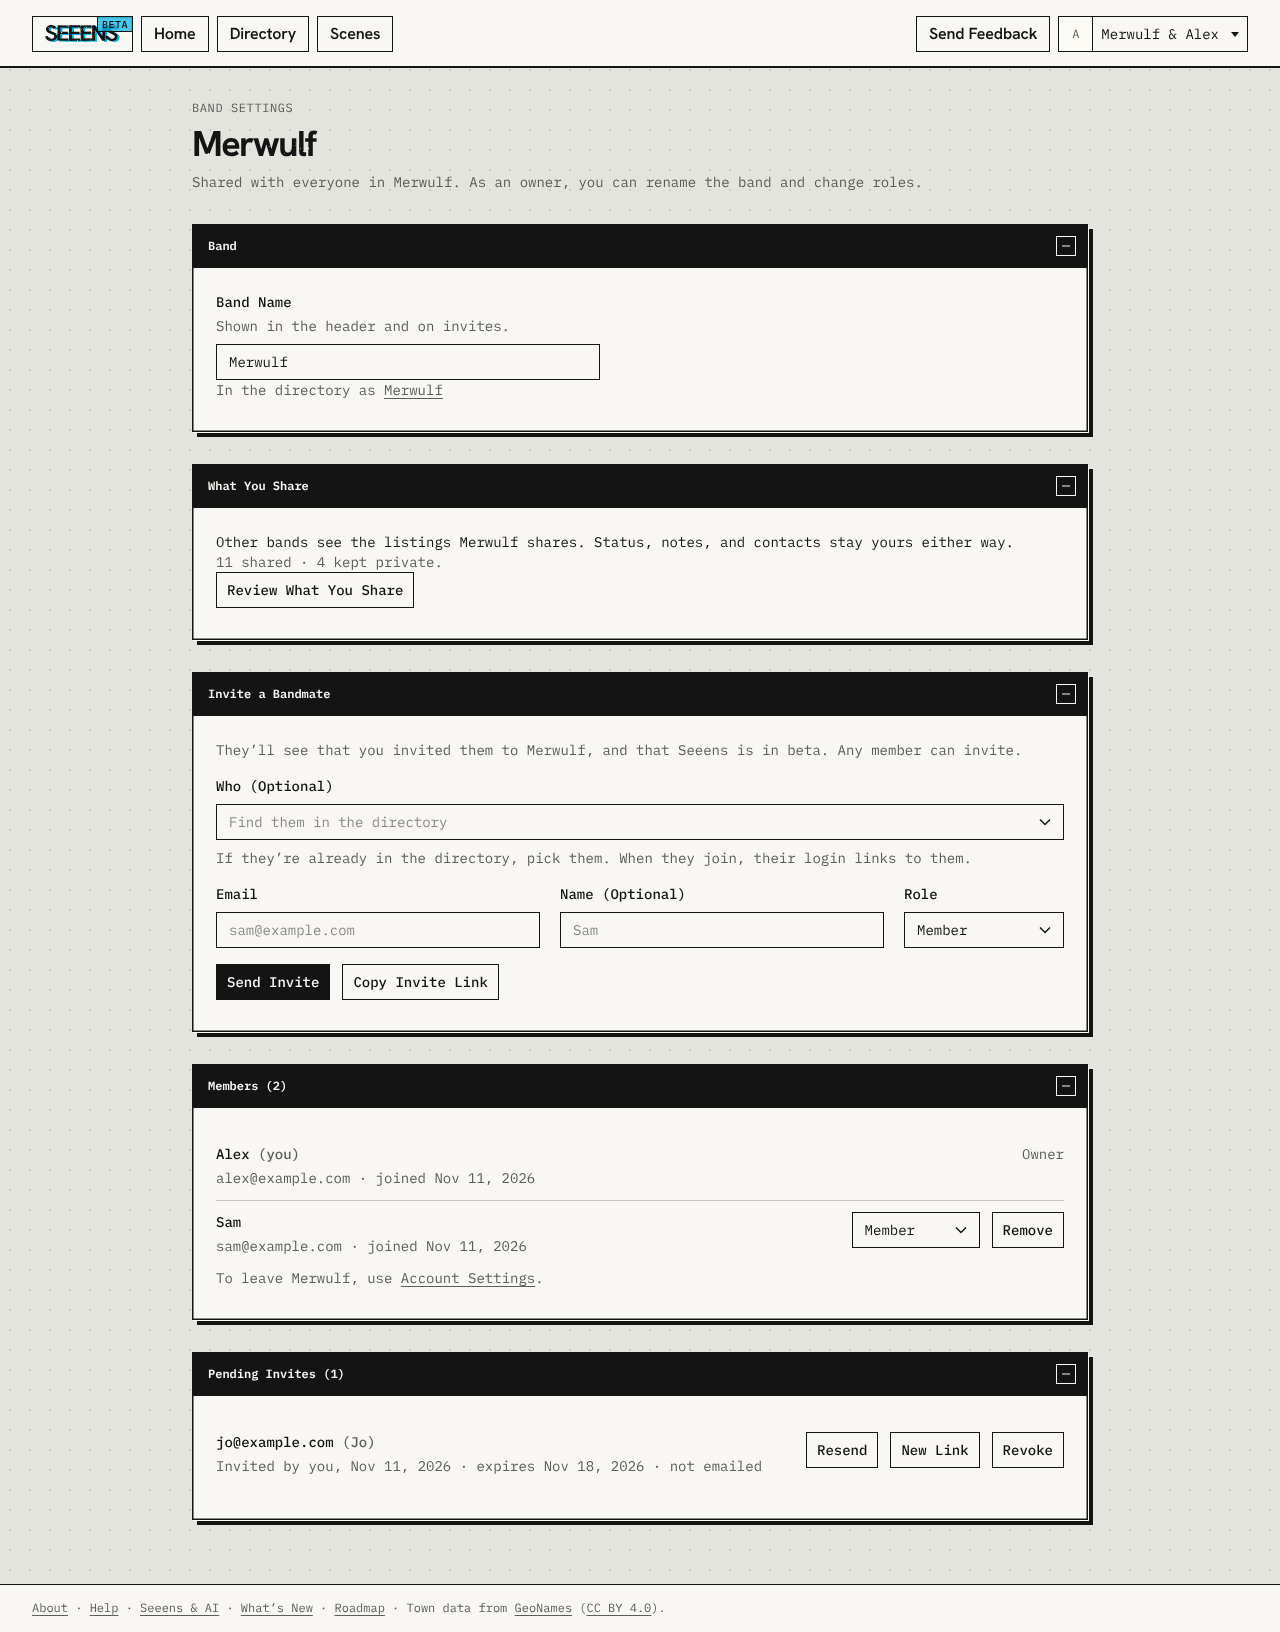
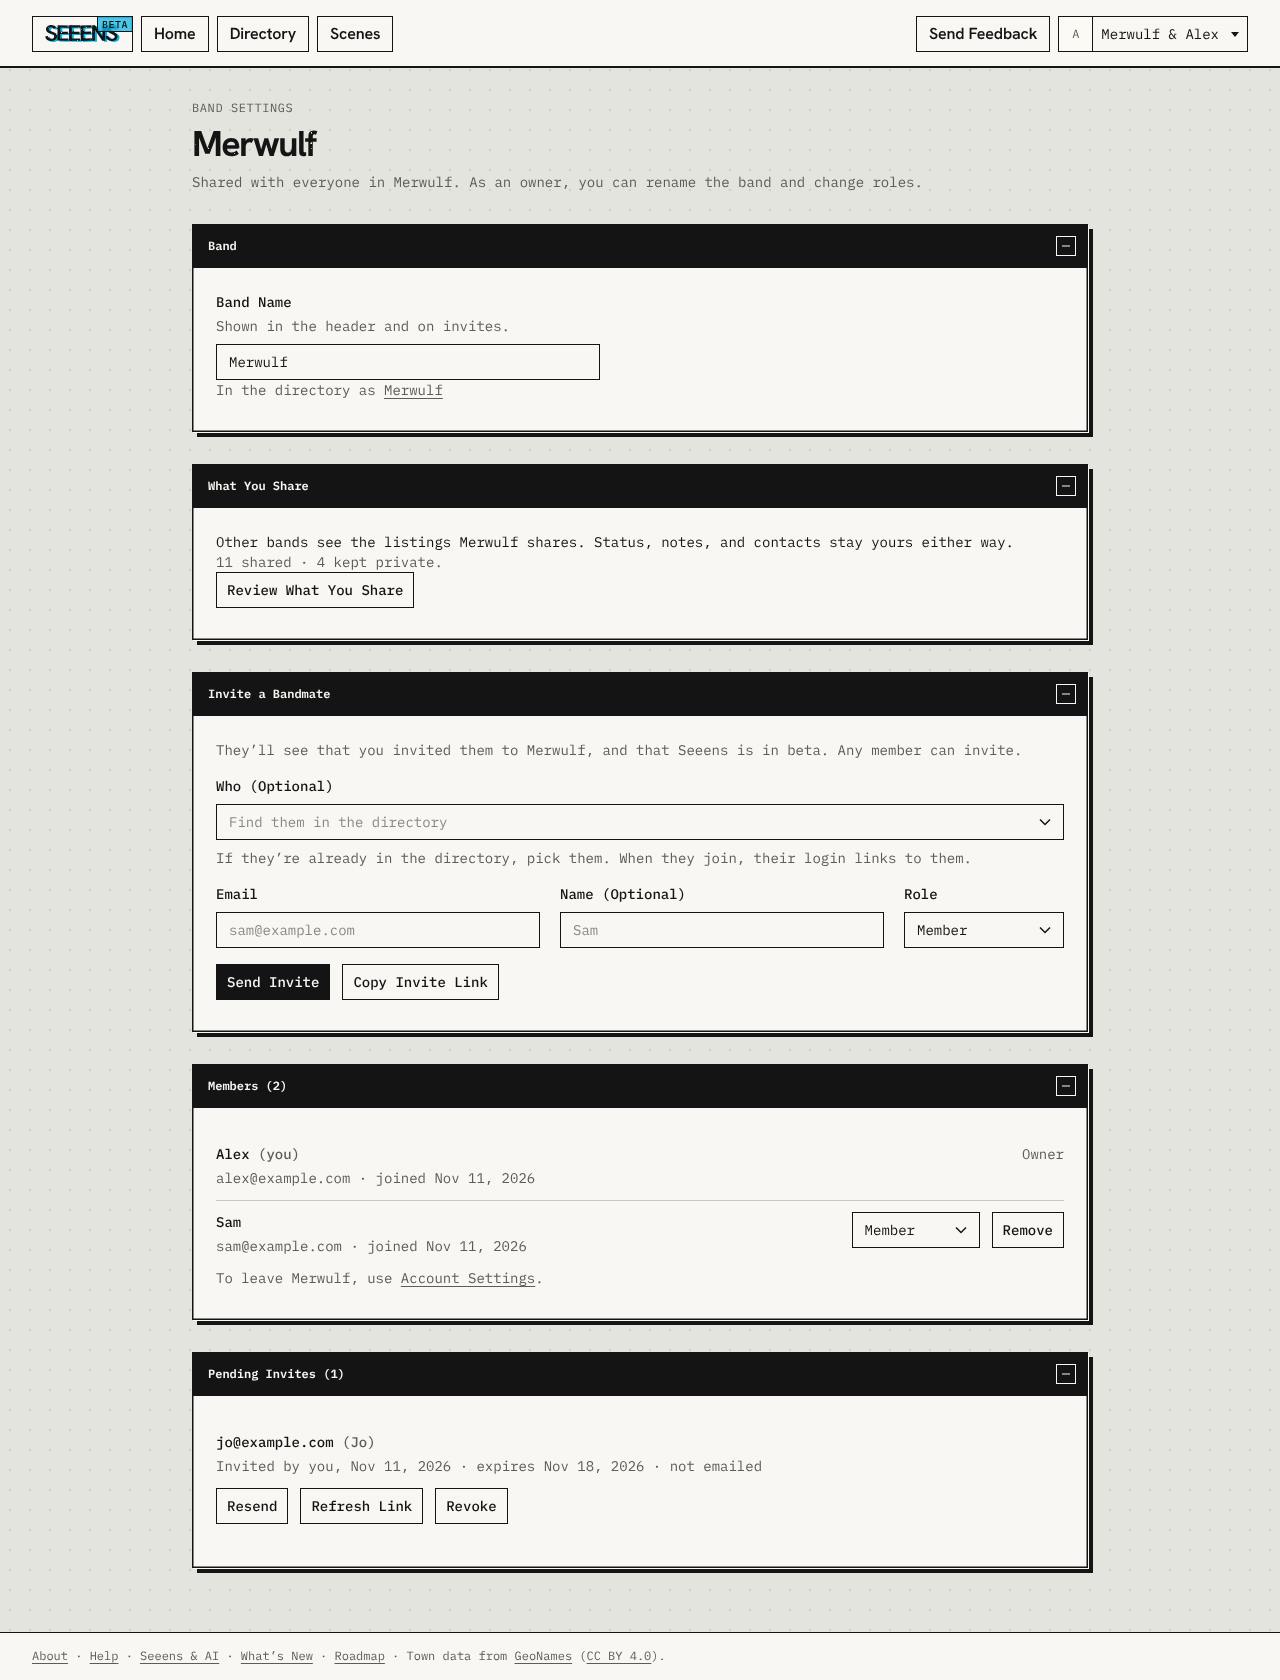
Actions lead with a verb (and a few title case fixes) (#291)
* Calls to action lead with a verb

Buttons and action links that named a place now say what they do: Open
Band Settings, Open Your Band's Page, Add Scene, View Town Nicknames,
View on GitHub, Make a New Link, Browse the Directory, Shuffle Grain, and
on the public pages Read About Seeens, Read About AI, See What's New, and
See the Roadmap. A few labels move to title case (Back to the Directory,
Clear Filters, Remove Photo, Keep It, Restore to Directory). Links inside
sentences and the footer stay as they are. Screenshots retaken where the
labels show.

Claude-Session: https://claude.ai/code/session_01SMP6NnyPkRALtU7G1T7uNS

* Scale back: places keep their names; only actions lead with a verb

Band Settings, Your Band's Page, Town Nicknames, New Grain, and the
public pages' buttons go back to their names. The rule now says what it
meant: actions lead with a verb, a link to a named place can just name
it, and a vague phrase is what to avoid.

Claude-Session: https://claude.ai/code/session_01SMP6NnyPkRALtU7G1T7uNS

* Invites: Refresh Link

Claude-Session: https://claude.ai/code/session_01SMP6NnyPkRALtU7G1T7uNS

---------

diff --git a/src/app/(app)/(directory)/directory-view.tsx b/src/app/(app)/(directory)/directory-view.tsx
@@ -164,7 +164,7 @@ async function Directory({ searchParams }: { searchParams: Promise<Params> }) {
             <p className="text-sm text-muted">
               Nothing archived.{" "}
               <Link href={directoryHref(tab, EMPTY)} className="link">
-                Back to the directory
+                Back to the Directory
               </Link>
             </p>
           ) : (
@@ -203,17 +203,17 @@ async function Directory({ searchParams }: { searchParams: Promise<Params> }) {
               </p>
               {filtering ? (
                 <Link href={directoryHref(tab, { ...EMPTY, archived })} className="link">
-                  Clear filters
+                  Clear Filters
                 </Link>
               ) : null}
               {after ? (
                 <Link href={directoryHref(tab, filters)} className="link">
-                  Back to the start
+                  Back to the Start
                 </Link>
               ) : null}
               {archived ? (
                 <Link href={directoryHref(tab, EMPTY)} className="link">
-                  Back to the directory
+                  Back to the Directory
                 </Link>
               ) : c.archived ? (
                 <Link href={directoryHref(tab, { ...EMPTY, archived: true })} className="link max-sm:hidden">

diff --git a/src/components/photo-copier.tsx b/src/components/photo-copier.tsx
@@ -571,12 +571,12 @@ function CopierBody({
                 Remove
               </button>
               <button type="button" className="action-link text-sm" onClick={() => setConfirmRemove(false)}>
-                Keep it
+                Keep It
               </button>
             </div>
           ) : (
             <button type="button" className="action-link text-sm" onClick={() => setConfirmRemove(true)}>
-              Remove photo
+              Remove Photo
             </button>
           )
         ) : null}

diff --git a/src/app/(app)/admin/bands/invite-band-form.tsx b/src/app/(app)/admin/bands/invite-band-form.tsx
@@ -170,7 +170,7 @@ export function NewLinkButton({ id, band }: { id: string; band: string }) {
         disabled={pending}
         onClick={() => start(async () => setState(await renewBandInvite(id).catch(unreachable)))}
       >
-        New Link<span className="sr-only"> for {band}</span>
+        Refresh Link<span className="sr-only"> for {band}</span>
       </button>
       <Note state={state} />
       {state.link ? <LinkBox key={state.link} link={state.link} /> : null}

diff --git a/src/app/(app)/feedback/page.tsx b/src/app/(app)/feedback/page.tsx
@@ -71,7 +71,7 @@ async function Feedback({ searchParams }: { searchParams: PageProps<"/feedback">
                   {kindLabel(f.kind)} · {formatDate(f.created_at, membership.timeZone)}
                   {f.github_url ? (
                     <a href={f.github_url} className="link" target="_blank" rel="noopener noreferrer">
-                      On GitHub
+                      View on GitHub
                     </a>
                   ) : null}
                 </p>

diff --git a/src/components/getting-started.tsx b/src/components/getting-started.tsx
@@ -75,7 +75,7 @@ export async function GettingStarted({ preview: asked = false }: { preview?: boo
       links: [
         {
           href: "/directory",
-          label: suggested?.length ? "More in the Directory" : "Open the Directory",
+          label: suggested?.length ? "Browse the Directory" : "Open the Directory",
         },
         { href: "/add", label: "Add Your Own" },
       ],

diff --git a/src/components/band-settings.tsx b/src/components/band-settings.tsx
@@ -323,7 +323,7 @@ export function PendingInviteActions({ id, hasEmail, label }: { id: string; hasE
           disabled={pending}
           onClick={() => run(() => renewInviteLink(id))}
         >
-          New Link<span className="sr-only"> for {label}</span>
+          Refresh Link<span className="sr-only"> for {label}</span>
         </button>
         <button
           type="button"

diff --git a/src/components/archive-control.tsx b/src/components/archive-control.tsx
@@ -28,7 +28,7 @@ export function ArchiveControl({ id, name, archived }: { id: string; name: strin
           disabled={pending}
           onClick={() => run(restoreConnection)}
         >
-          {pending ? "Restoring…" : "Restore to directory"}
+          {pending ? "Restoring…" : "Restore to Directory"}
         </button>
         <Status error={error} />
       </div>

diff --git a/src/app/(app)/scenes/page.tsx b/src/app/(app)/scenes/page.tsx
@@ -21,7 +21,7 @@ export default function ScenesPage({ searchParams }: PageProps<"/scenes">) {
             Town Nicknames
           </Link>
           <Link href="/scenes/new" className="button-primary">
-            New Scene
+            Add Scene
           </Link>
         </div>
       </div>

diff --git a/README.md b/README.md
@@ -168,7 +168,7 @@ npx supabase db push --linked
 
 ### Inviting bands and members
 
-Seeens is invite only. App admins invite each band from **Invite Bands** in the account menu (`/admin/bands`), or with the **Invite to Seeens** button on any band listing nobody has claimed yet: pick the band's listing in the directory, or type its name if nobody's added it yet, and add its first owner's email. The owner gets an invite (emailed when email is set up, otherwise a link to send yourself), makes their account on the invite page, and their band claims the listing. A claimed listing shows "Uses Seeens"; the band that added it keeps its own notes and history on it, and the claimed band's members can fix its details (name, town, links, what they can help with), logged as theirs. It stays shared. Bands still waiting on their owner show on the Bands page, with a New Link button if the first one runs out. New members get **Getting Started** at the top of Home, one step at a time: start with bands you might know (bands that already have yours in their network, then shared bands in your town, each with a status to pick right there; 3 in the network checks it off), fill in the band's page, find yourself, and invite bandmates. Each step checks itself off, Skip for Now moves to the next, and each person can put it away. App admins can preview it as a new band sees it from the account menu (`/?preview=getting-started`); nothing picked there saves. People can be in more than one band: the account menu lists their bands under Band, and picking one switches to it (remembered on that browser).
+Seeens is invite only. App admins invite each band from **Invite Bands** in the account menu (`/admin/bands`), or with the **Invite to Seeens** button on any band listing nobody has claimed yet: pick the band's listing in the directory, or type its name if nobody's added it yet, and add its first owner's email. The owner gets an invite (emailed when email is set up, otherwise a link to send yourself), makes their account on the invite page, and their band claims the listing. A claimed listing shows "Uses Seeens"; the band that added it keeps its own notes and history on it, and the claimed band's members can fix its details (name, town, links, what they can help with), logged as theirs. It stays shared. Bands still waiting on their owner show on the Bands page, with a Refresh Link button if the first one runs out. New members get **Getting Started** at the top of Home, one step at a time: start with bands you might know (bands that already have yours in their network, then shared bands in your town, each with a status to pick right there; 3 in the network checks it off), fill in the band's page, find yourself, and invite bandmates. Each step checks itself off, Skip for Now moves to the next, and each person can put it away. App admins can preview it as a new band sees it from the account menu (`/?preview=getting-started`); nothing picked there saves. People can be in more than one band: the account menu lists their bands under Band, and picking one switches to it (remembered on that browser).
 
 Everyone else joins from **Band Settings** (account menu > Band Settings). Any member can invite by email or copy a link; only owners can invite owners. If the bandmate is already in the directory, pick them under Who: their name (and email, if the band saved one) fills in, and joining links their login to that person, so they don't end up with a copy. The band's members come first, even ones another band kept private. Links work once, for 7 days. Someone new makes their account on the invite page, so public sign-ups stay turned off in the Supabase auth settings. Owners change roles, remove members, and rename the band there too, and a band always keeps an owner. Members leave from Account Settings. Each member can link their login to their person in the directory (Account Settings > You > Your Page): pick themselves from any band's people (another band may already have added them), or make a page that's added to the band. One person per account: linking fills in their other bands too. Linked from another band, the person stays with the band that added it, and they can fix their own details there. Linked people show "Uses Seeens" on the band's page, and Your Page appears in the account menu.
 

diff --git a/docs/design-system/rules.md b/docs/design-system/rules.md
@@ -7,7 +7,7 @@ Status: phase 1 tokens are in. The source of truth is the [Seeens Figma file](ht
 - **Color:** ink `#141414` on paper `#f8f7f3`, over a dotted ground `#e4e4df`. The secondary text is `#5d5d58`. Process plates are for status and accents. Ink is the primary accent (`color/accent/primary`), used for primary buttons and checked controls. Hover is a quiet ground tint (`color/bg/hover`) or an inversion. Color is saved for highlights and tags. Status plates: magenta (Homies), cyan (Eyeing), and yellow (Let's play).
 - **Type:** Hanken Grotesk for headings and nav. IBM Plex Mono for body, labels, and controls. Reenie Beanie for rare handwritten notes. Fonts are self-hosted with Fontsource. Headings use the `display-*` utilities, which mirror the Figma Display styles (XXL 96, XL 52, L 36, M 28, S 20); page titles are `display-l sm:display-xl`. Form labels, section labels, and button text use Mono/Label (`.label`, 14/20 Medium, no caps).
 - **Label case:** write button, form, and section labels in APA title case ("Add Connection", "Search by Name", "Scenes (Optional)"). Keep sentence case when a label reads as a sentence or question ("Who's on it", "What is it?", "We've played together"). Headings and body copy stay in sentence case.
-- **Calls to action lead with a verb:** buttons and action links say what happens: "View Full Directory", "Add Your Own", "Open the Directory", "Invite Bandmates". Not a bare noun or phrase ("Everyone in the Directory", "All follow-ups"). Nav items, tabs, and filters name places and things, so they stay nouns.
+- **Actions lead with a verb:** a button or link that does something says what: "Add Scene", "Invite Bandmates", "Refresh Link", "Browse the Directory", "View Full Directory". One that just goes to a named place can be the place's name: "Band Settings", "Roadmap", "About Seeens". What to avoid is a label that's neither: a phrase that hints at a destination without naming it ("Everyone in the Directory", "More in the Directory").
 - **Size and rhythm:** every height sits on a 4px grid. Fields, buttons, choices, and segments are 36px (`--control-height`, Figma `size/control-height`), tags are 20, and nav chips are 36. Line heights are 16 for captions and tags, 20 for body, labels, buttons, and nav, 24 for Display/S, and 1:1 for larger display sizes. Spacing tokens are 2, 4, 8, 12, 16, 24, 32, and 72. Panel, window, and row-divider edges are drawn as overlays, so they add no height.
 - **Shape:** square corners everywhere except the keycap hint (2px), 1px ink borders, and a 1.5px border on windows. Windows get a hard offset shadow (Shadow/Hard: a 1px sliver of paper, then 5px of ink, so the box and its shadow read as separate); buttons have none for now.
 - **Borders are part of the box.** In Figma, auto layouts include borders ("Include borders in layout" on; `strokesIncludedInLayout: true`): padding starts inside the border, and a hugging frame grows by the border. That's plain CSS, so code uses a real `border` and Figma's padding as is (a Field is `1px border + 12px padding`; a Window is a 1.5px border, not an overlay). Anything meant to be a set size (controls at 36, a Tag at 20) is Fixed in Figma, not Hug, and gets a fixed or minimum height in code. A few frames still exclude borders (Tag, Keyboard Hint, the Segmented Control's outer edge, some dividers); for those, code subtracts the border from the padding or draws the line as an inset. Corrected Nov 8: the earlier rule had this backwards.
